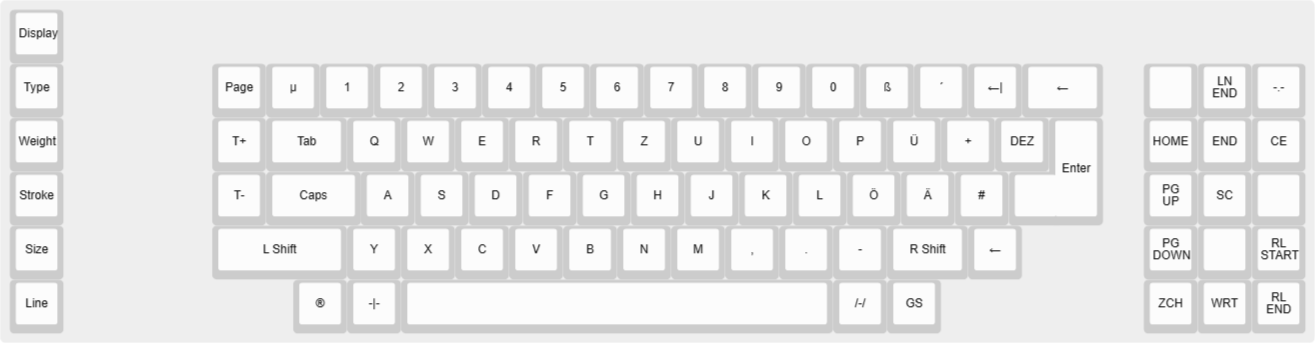
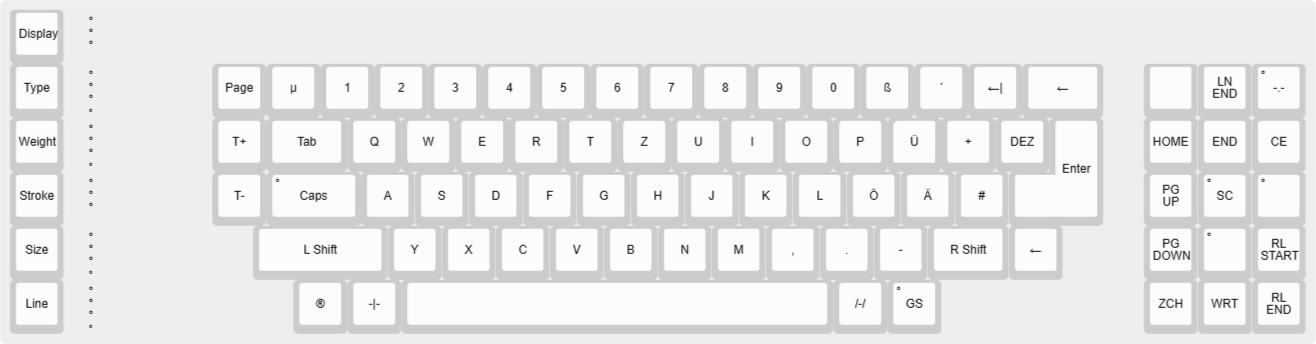
Added LEDs to the documentation and layout

diff --git a/README.md b/README.md
@@ -19,9 +19,9 @@ More information on the TA SE 10xx series of typewriters:
 ## Layout
 Both my SE 1040's have a German ISO-DE layout with some additional modifyer keys to control typewriter functionalities like font settings and cursor control. It's similar to a 60% plus numpad plus 6 XT-style F-keys.
 
-Notably, the top left key on the "numpad" / right F cluster is a blank & doesn't have a switch underneath.
+Notably, the top left key on the "numpad" function cluster is a blank & doesn't have a switch underneath.
 
-In total, the keyboard has 84 keys.
+In total, the keyboard has 84 keys (83 + 1 blank).
 
 ## Switches
 The switches are [Cherry M9](https://deskthority.net/wiki/Cherry_M9) with black stems. According to the Cherry catalog, these are the low profile linear variant - the main housing sits below the steel plate, with the top part clipping into the plate.
@@ -39,6 +39,11 @@ The keyboard has black, low profile keycaps. They are 2mm thick and 8mm at their
 The display is a 40x1 character [Vacuum Fluorescent Display](https://en.wikipedia.org/wiki/Vacuum_fluorescent_display) (VFD), each charater with a 5x12 dot matrix, driven by 12 Texas Instruments UCN4810A VFD display driver chips.
 
 ![alt text](https://github.com/DirkSonguer/keyboard-TA-SE-1040/blob/main/images/TA-SE-1040-display.jpg "TA SE 1040 Display")
+
+## LEDs
+On the left is a column of function keys with corresponding LEDs: Typing mode, text alignment, font weight, line weight, font size and line height. The keys would swith through the options with the LEDs highlighting the currently selected one.
+
+In total, there are 22 LEDs in 6 groups. Each group is a separate module soldered to the PCB.
 
 # Rebuild
 
